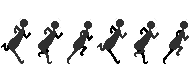
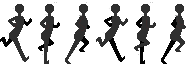
new player animation

diff --git a/core/src/fi/tamk/tiko/orion/sleeprunner/objects/PlayerObject.java b/core/src/fi/tamk/tiko/orion/sleeprunner/objects/PlayerObject.java
@@ -42,7 +42,7 @@ public class PlayerObject extends GameObject {
 
         body.setFixedRotation(true);
 
-        runAnimation = Tools.createAnimation(texture, 6, 1, 1, 6, 1 / 8f);
+        runAnimation = Tools.createAnimation(texture, 6, 1, 1, 6, 1/10f);
 
         currentAnimation = runAnimation;
 
@@ -61,6 +61,7 @@ public class PlayerObject extends GameObject {
             velY *= 0.0001f;
             Constants.PLAYER_JUMPING_LINEAR_IMPULSE.set(0, 0.1f + velY > 0.40f ? 0.40f : 0.1f + velY);
             body.applyLinearImpulse(Constants.PLAYER_JUMPING_LINEAR_IMPULSE, body.getWorldCenter(), true);
+            runAnimation.setFrameDuration( 1/3f );
             jumping = true;
         }
         runSound.stop();
@@ -72,6 +73,7 @@ public class PlayerObject extends GameObject {
      */
     public void landed(){
         jumping = false;
+        runAnimation.setFrameDuration( 1/10f );
         runSound.stop();
         runSound.play(prefs.getSoundVolume());
     }
